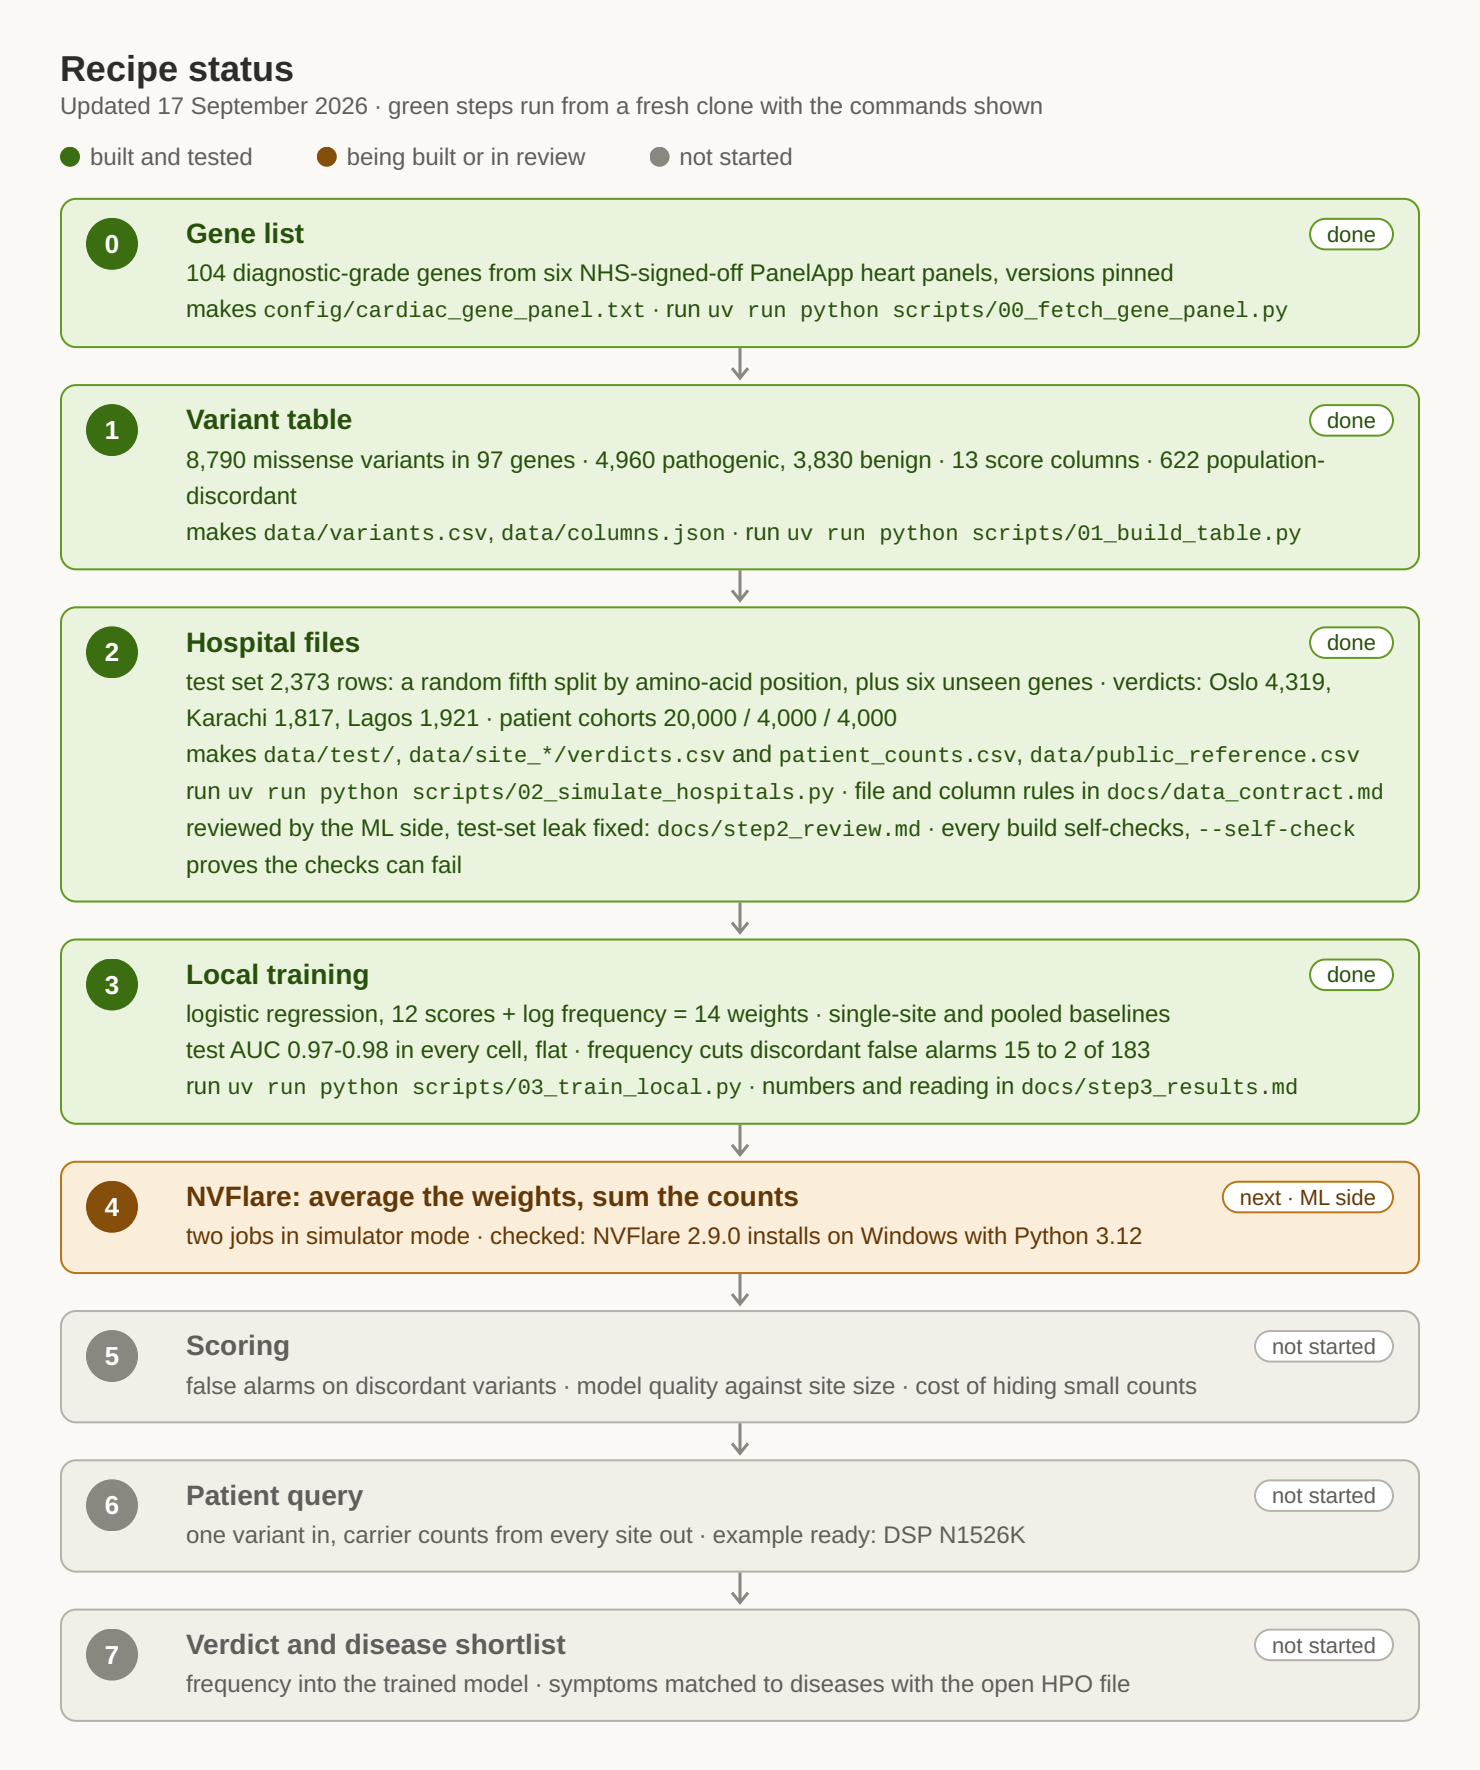
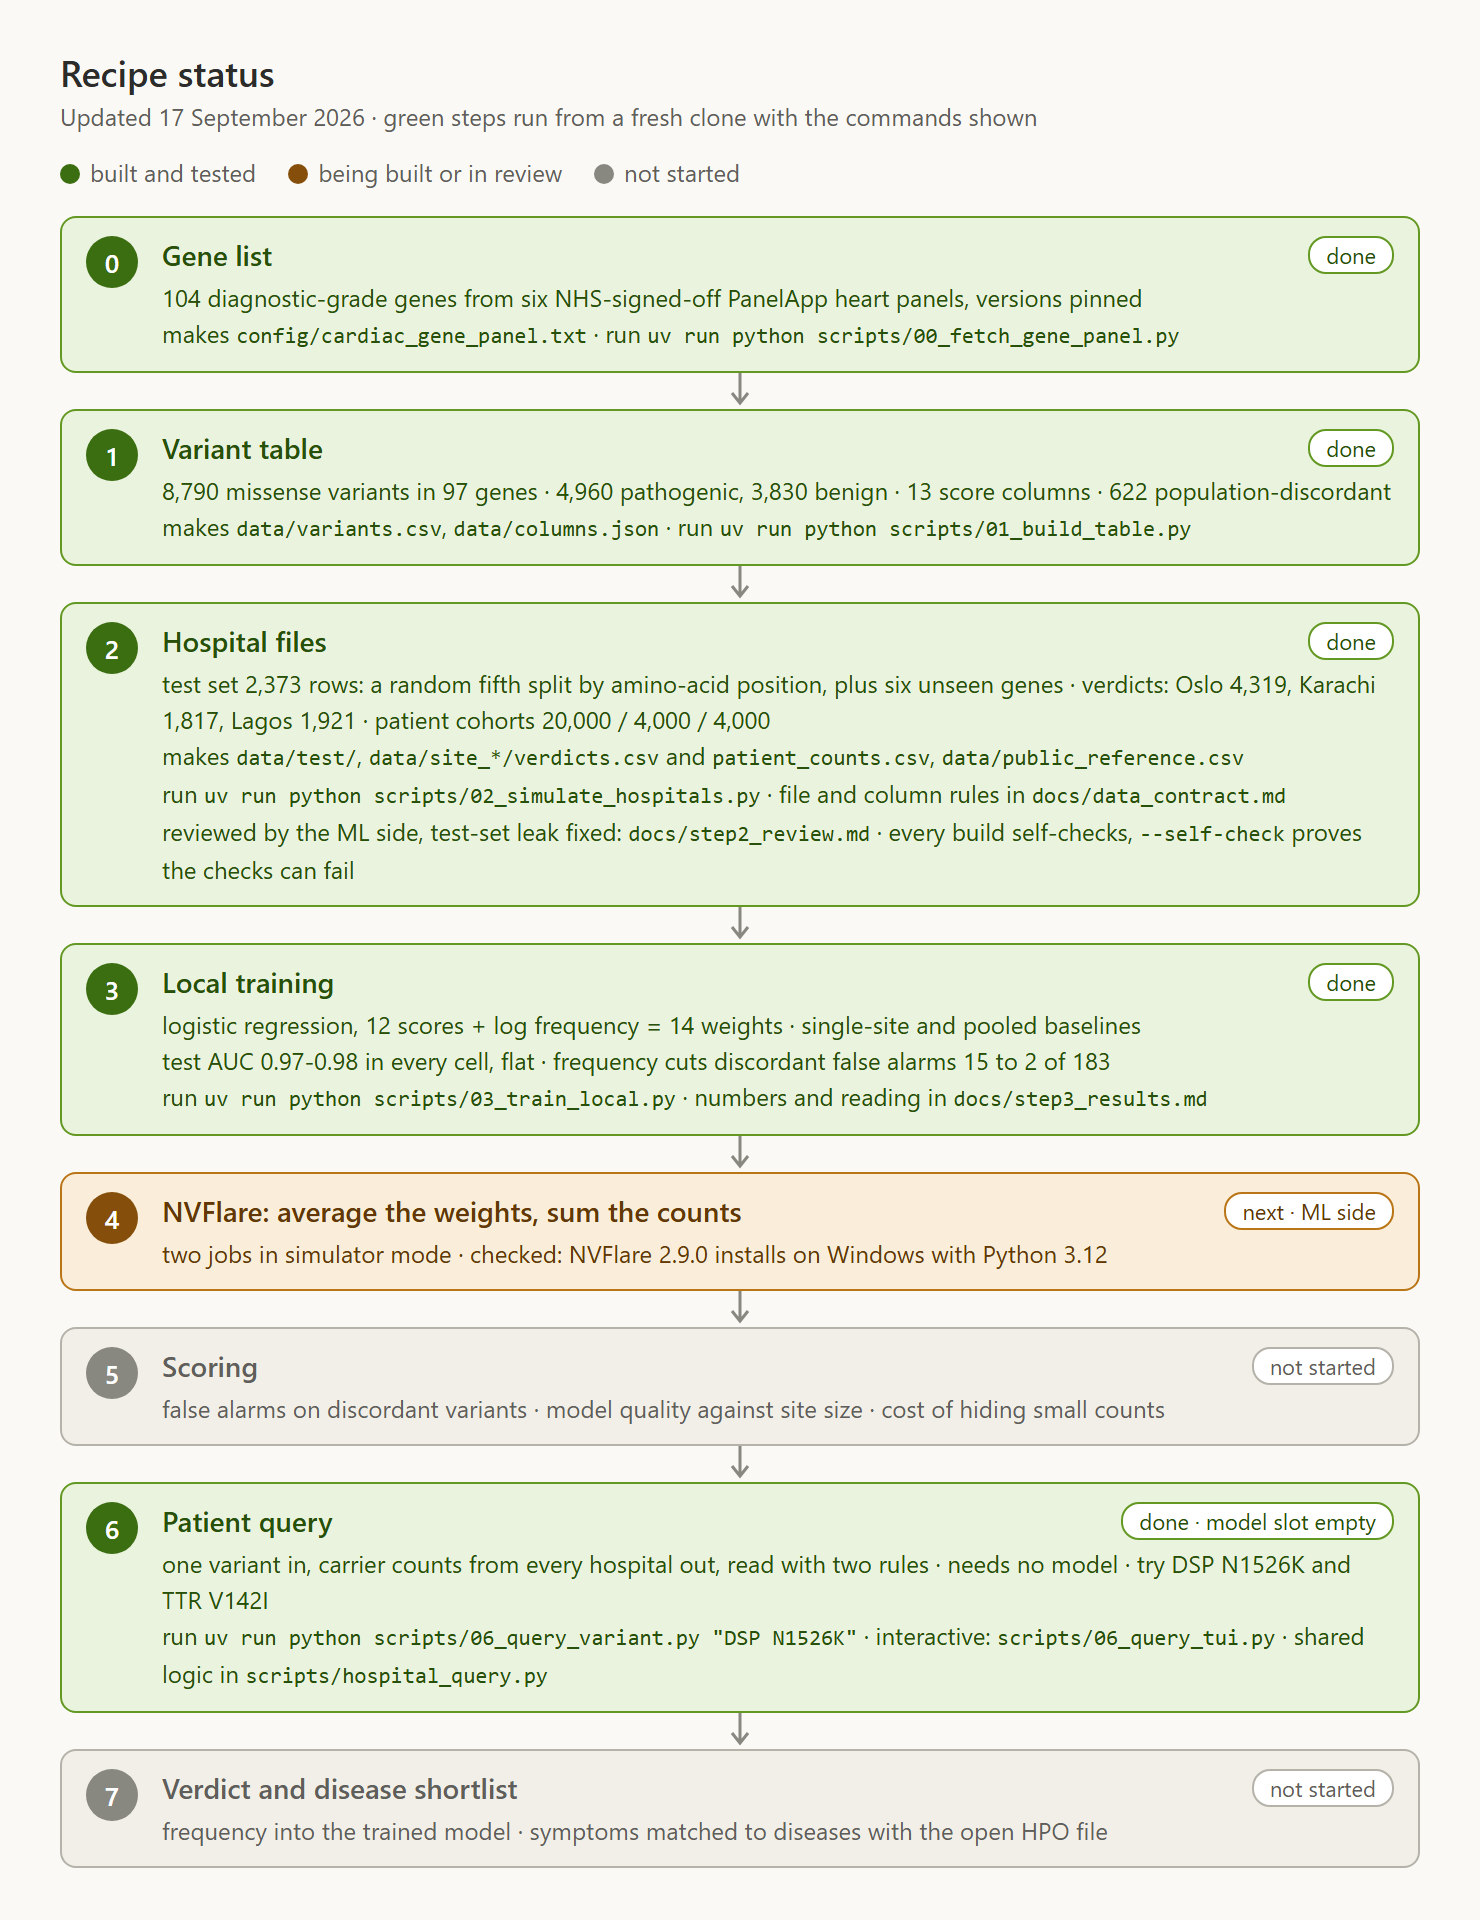
Document step 6 and re-render the pictures
README gets a step 6 section: the commands, the screenshot, three variants to
try, how to read the chart, and the limit of the pile-up rule. The status
picture is re-rendered from the merged page, with steps 0 to 3 and 6 green and
step 4 next. The pipeline flowchart is re-rendered from the HTML whose step 6
counts were already corrected, and the note asking for that render is removed.

diff --git a/docs/recipe_status.html b/docs/recipe_status.html
@@ -8,7 +8,7 @@
     class="step todo"   grey   not started
   Change that one word, edit the text lines, change the date, then re-render:
 
-  chrome --headless=new --hide-scrollbars --force-device-scale-factor=2 --window-size=740,886 --screenshot=docs/recipe_status.png docs/recipe_status.html
+  chrome --headless=new --hide-scrollbars --force-device-scale-factor=2 --window-size=740,960 --screenshot=docs/recipe_status.png docs/recipe_status.html
 -->
 <html lang="en">
 <head>
@@ -92,9 +92,10 @@
 </div></div>
 <div class="arrow"><svg width="12" height="18"><path d="M6 0V14M2 10L6 15L10 10" fill="none" stroke="#888780" stroke-width="1.5"/></svg></div>
 
-<div class="step todo"><div class="num">6</div><div class="body">
-  <span class="pill">not started</span><p class="title">Patient query</p>
-  <p class="line">one variant in, carrier counts from every site out · example ready: DSP N1526K</p>
+<div class="step done"><div class="num">6</div><div class="body">
+  <span class="pill">done · model slot empty</span><p class="title">Patient query</p>
+  <p class="line">one variant in, carrier counts from every hospital out, read with two rules · needs no model · try DSP N1526K and TTR V142I</p>
+  <p class="line">run <code>uv run python scripts/06_query_variant.py "DSP N1526K"</code> · interactive: <code>scripts/06_query_tui.py</code> · shared logic in <code>scripts/hospital_query.py</code></p>
 </div></div>
 <div class="arrow"><svg width="12" height="18"><path d="M6 0V14M2 10L6 15L10 10" fill="none" stroke="#888780" stroke-width="1.5"/></svg></div>
 

diff --git a/README.md b/README.md
@@ -42,9 +42,8 @@ Team 12: federated variant classification with population context
 
 ## 1. The pipeline in one picture
 
-![Seven-step pipeline: three sources join into one table, split into a held-out test set and three hospital sites, local training, NVFlare weight averaging, per-population AUC, a federated count query for a patient, and a verdict](docs/pipeline_flowchart.png?v=4)
+![Seven-step pipeline: three sources join into one table, split into a held-out test set and three hospital sites, local training, NVFlare weight averaging, per-population AUC, a federated count query for a patient, and a verdict](docs/pipeline_flowchart.png?v=5)
 
-> The picture above is one edit behind the HTML: the step 6 carrier counts in `docs/pipeline_flowchart.html` were corrected to the current build, but this picture needs headless Chrome, which will not run on the machine that made the edit. Whoever has Chrome next, run the command below and raise the `?v=` number on the image link.
 
 Source for the picture: [docs/pipeline_flowchart.html](docs/pipeline_flowchart.html). Re-render with headless Chrome after editing:
 
@@ -340,7 +339,7 @@ Scores to avoid as inputs: ClinPred, BayesDel, REVEL, MetaLR and similar meta-pr
 
 ## 8. Build status and how to run
 
-![Recipe status: steps 0, 1 and 2 are built and tested, steps 3 to 7 are not started](docs/recipe_status.png?v=4)
+![Recipe status: steps 0 to 3 and step 6 are built and tested, step 4 is next](docs/recipe_status.png?v=6)
 
 Green means the step runs from a fresh clone with the command shown. To update the picture, open [docs/recipe_status.html](docs/recipe_status.html), change a step's one-word status (`todo`, `next` or `done`), and re-render with the command at the top of that file. Then raise the `?v=` number on the image link above, otherwise GitHub keeps serving its cached copy of the old picture. Where headless Chrome will not run, `uv run --with weasyprint --with pypdfium2 --with pillow python scripts/render_docs_png.py` produces the same picture; it does not work for the flowchart, whose arrows need Chrome.
 
@@ -455,6 +454,32 @@ uv run python -c "import pandas as pd; print(pd.read_csv('data/site_lagos/verdic
 column -s, -t < data/site_lagos/verdicts.csv | less -S     # or just open it in Excel
 cat data/sites.json                                        # every size and setting of your run
 ```
+
+---
+
+### Step 6 is built: the patient query
+
+One variant in, carrier counts from every hospital out. It needs no model: each hospital reads its own `patient_counts.csv` and returns a handful of numbers, and two rules a clinical lab already applies by hand read them. Rule 1: common among healthy people somewhere means too common to cause a rare disease. Rule 2: if it piles up among the sick, keep it flagged anyway.
+
+```
+uv run python scripts/06_query_variant.py "DSP N1526K"    # run and print
+uv run python scripts/06_query_variant.py "TTR V142I" --json
+uv run python scripts/06_query_tui.py                     # interactive, needs a real terminal
+```
+
+![The interactive patient query: a variant picker, the call for the patient's hospital alone and for all hospitals together, and one chart with a row per source of evidence](docs/patient_query_tui.png?v=1)
+
+Every bar is a frequency on one shared log scale, and the tick marks 0.1%, too common to cause a rare disease. A green "healthy" bar past the tick clears the variant; a red "sick" bar well past the healthy one keeps it flagged. The dot beside each variant in the list shows its call before you select it. The public database and the three hospitals are rows of one chart, so their bars line up and can be compared directly, and the screen reflows when the window is resized: bars shrink, then names shorten, and the numbers always stay. The `show` dropdown switches between the demo examples, the variants whose call changes once the other hospitals answer (492 for a patient at Oslo, in the current build), the ones kept flagged, and everything. The `gene` dropdown narrows to one gene, and typing filters by name. Arrow keys move through the list, Tab moves between controls, F2 switches small-count hiding on and off, and F3 moves the patient to the next hospital. The call is shown twice: what the patient's own hospital could say alone, with the public database, and what it can say once all hospitals have answered.
+
+| try | what it shows |
+|---|---|
+| `DSP N1526K` | Oslo alone cannot clear it; Lagos's healthy patients show 15%, so it is likely harmless |
+| `TTR V142I` | common at Lagos, yet five times more common among the sick, so it stays flagged |
+| `MYH7 R403Q` | seen nowhere, so frequency says nothing and the scores have to decide |
+
+Step 6 is four short files, one job each: `scripts/hospital_query.py` holds the logic, `scripts/query_drawing.py` holds the look (the palette and how to read the bars), and `06_query_variant.py` and `06_query_tui.py` are thin layers over them, so the two cannot disagree. Every reading is rule-based with fixed thresholds at the top of `hospital_query.py`; nothing is generated or random. The ML side can import it: `query("DSP N1526K").best_frequency` is the frequency to give a model for a patient the asking hospital knows little about, and `model_verdict()` in that file is the marked slot where the trained model plugs in. Until then the output says `model: not connected yet`.
+
+One honest limit: rule 2 uses counts among affected patients, which step 2 generates from the verdict. It demonstrates what real hospital data would allow; it is not evidence, and those counts must never feed a model.
 
 ---
 
